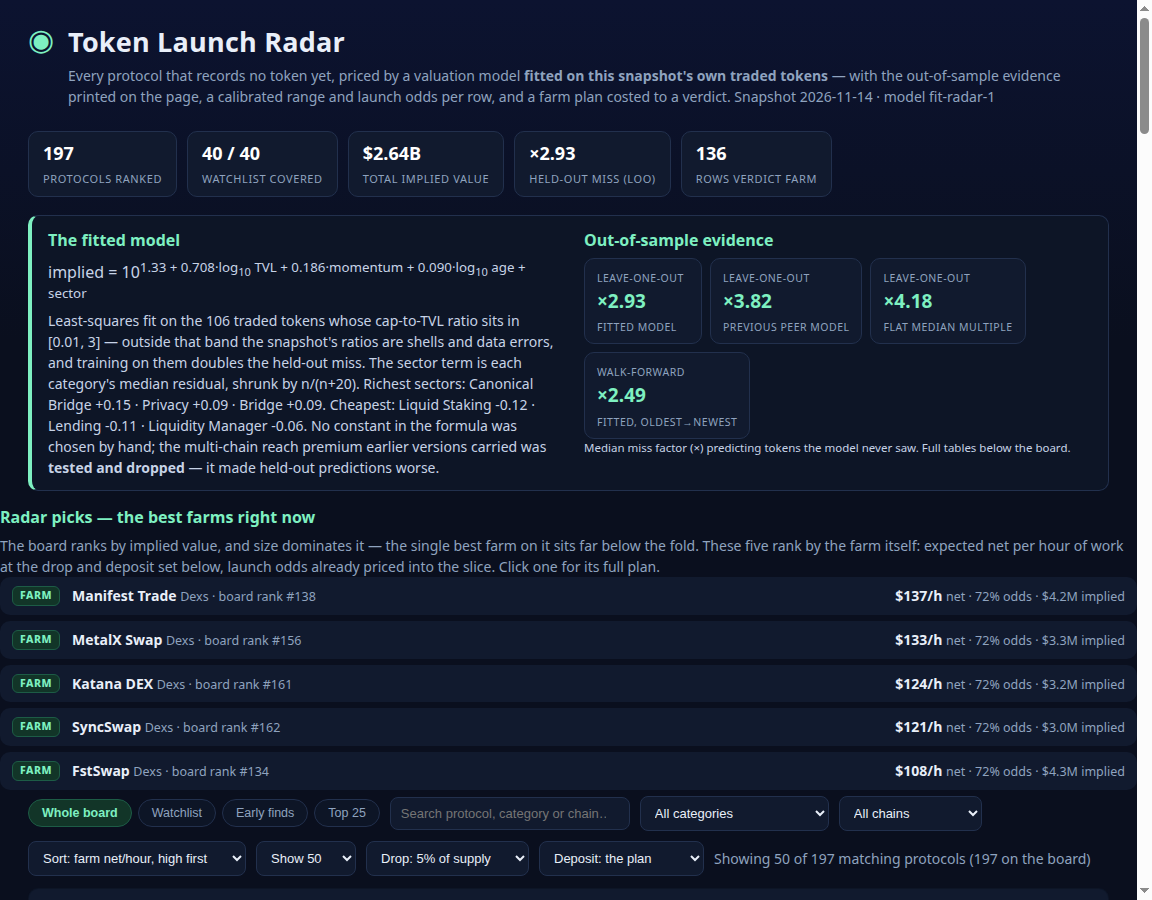
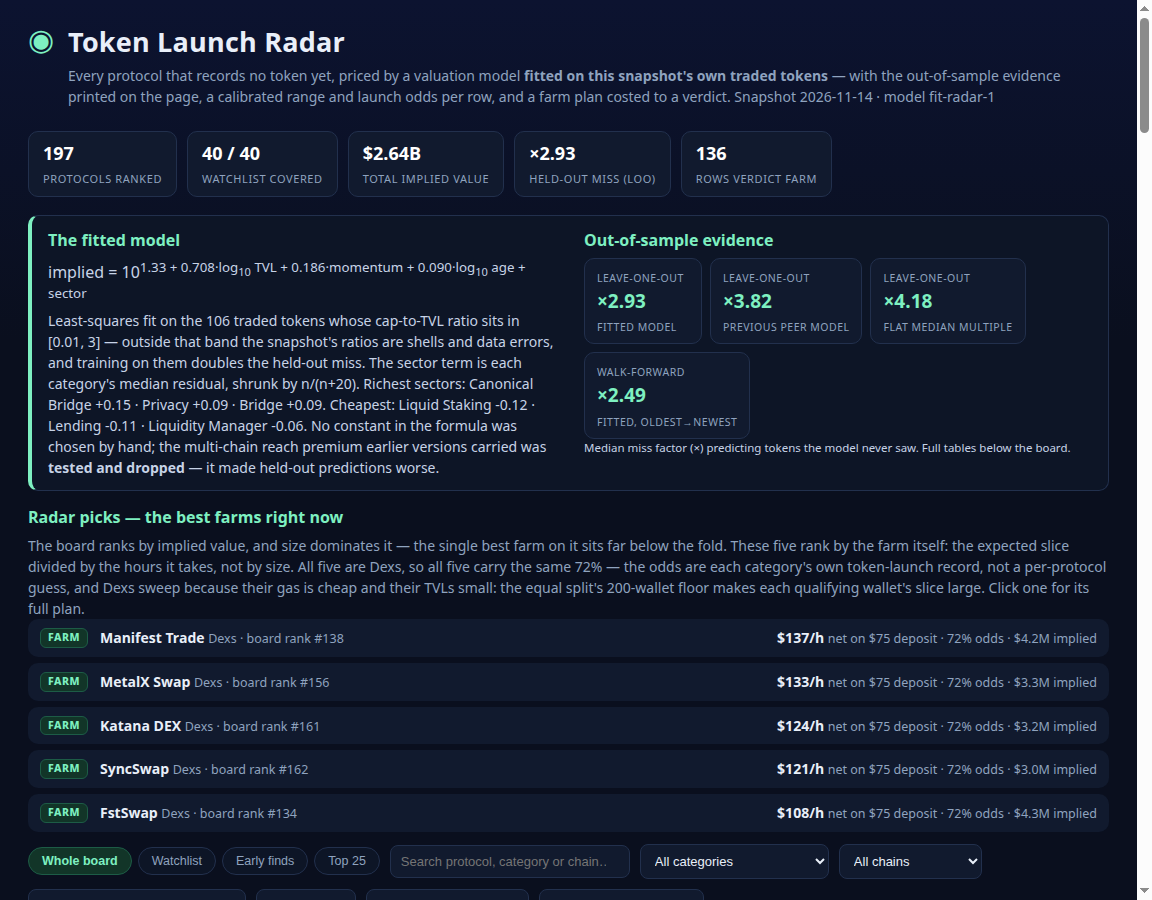
v6.2.1: picks caption + deposit per pick, detail view shows all 8 steps
Third Hermes round: the identical 72% odds across all five picks is
now justified in place (category record, and why Dexs sweep: cheap
gas, small TVLs, the 200-wallet floor), each pick shows its deposit
beside the hourly net, the picks section takes the standard section
margin, and the intro states the ranking is slice-over-hours, not
size. Opening a detail now sets the method band aside, so the detail
screenshot reads the whole plan — all eight steps and the full
why-this-rank — inside one frame. Dossier 1.571 MB of the 1.5 MiB cap.

Changed region(s): [[0.0, 0.56, 0.9688, 0.9956]]

diff --git a/dashboard/app.js b/dashboard/app.js
@@ -138,7 +138,7 @@ function renderPicks() {
     '<button class="pick" data-slug="' + esc(x.r.slug) + '">' +
     '<span class="vd vd-' + x.c.verdict.toLowerCase() + '">' + x.c.verdict + '</span>' +
     '<span class="pn"><b>' + esc(x.r.name) + '</b> <span class="pd">' + esc(x.r.category || '—') + ' · board rank #' + x.r.rank + '</span></span>' +
-    '<span class="pv"><b>' + (x.c.nph < 0 ? '−$' + Math.abs(x.c.nph).toFixed(0) : '$' + x.c.nph.toFixed(0)) + '/h</b> <span class="pd">net · ' + Math.round(x.r.token_odds * 100) + '% odds · ' + fmtUsd(x.r.implied_value_usd) + ' implied</span></span>' +
+    '<span class="pv"><b>' + (x.c.nph < 0 ? '−$' + Math.abs(x.c.nph).toFixed(0) : '$' + x.c.nph.toFixed(0)) + '/h</b> <span class="pd">net on ' + fmtUsd(x.c.deposit) + ' deposit · ' + Math.round(x.r.token_odds * 100) + '% odds · ' + fmtUsd(x.r.implied_value_usd) + ' implied</span></span>' +
     '</button>').join('');
   for (const b of document.querySelectorAll('.pick')) {
     b.addEventListener('click', () => { location.hash = 'p=' + b.getAttribute('data-slug'); });
@@ -217,6 +217,7 @@ function renderDetail(slug) {
   $('leaderssec').classList.toggle('hidden', !!r);
   $('momsec').classList.toggle('hidden', !!r);
   $('pickssec').classList.toggle('hidden', !!r);
+  document.body.classList.toggle('detail-open', !!r);
   if (!r) { el.classList.add('hidden'); el.innerHTML = ''; return; }
   el.classList.remove('hidden');
   const c = costing(r);

diff --git a/dashboard/index.html b/dashboard/index.html
@@ -35,7 +35,7 @@
 
 <section class="picks" id="pickssec">
   <h2>Radar picks — the best farms right now</h2>
-  <p class="sub">The board ranks by implied value, and size dominates it — the single best farm on it sits far below the fold. These five rank by the farm itself: expected net per hour of work at the drop and deposit set below, launch odds already priced into the slice. Click one for its full plan.</p>
+  <p class="sub">The board ranks by implied value, and size dominates it — the single best farm on it sits far below the fold. These five rank by the farm itself: the expected slice divided by the hours it takes, not by size. All five are Dexs, so all five carry the same 72% — the odds are each category's own token-launch record, not a per-protocol guess, and Dexs sweep because their gas is cheap and their TVLs small: the equal split's 200-wallet floor makes each qualifying wallet's slice large. Click one for its full plan.</p>
   <div id="picks"></div>
 </section>
 

diff --git a/dashboard/app.css b/dashboard/app.css
@@ -124,7 +124,8 @@ footer{padding:10px 28px 26px;color:var(--muted);font-size:12px}
 .costgrid .stat b{font-size:15px}
 body.evidence-only .top,body.evidence-only .method,body.evidence-only .picks,body.evidence-only .leaders,body.evidence-only .controls,body.evidence-only main,body.evidence-only .live,body.evidence-only footer{display:none}
 body.board-only .leaders{display:none}
-.picks{margin:0 0 6px}
+.picks{margin:0 28px 12px}
+body.detail-open .method{display:none}
 .pick{display:flex;gap:12px;align-items:center;width:100%;text-align:left;background:var(--panel);border:1px solid var(--border);border-radius:10px;padding:8px 12px;margin:0 0 6px;cursor:pointer;color:var(--text);font:inherit}
 .pick:hover{border-color:var(--accent)}
 .pick .pn{flex:1;min-width:0}
